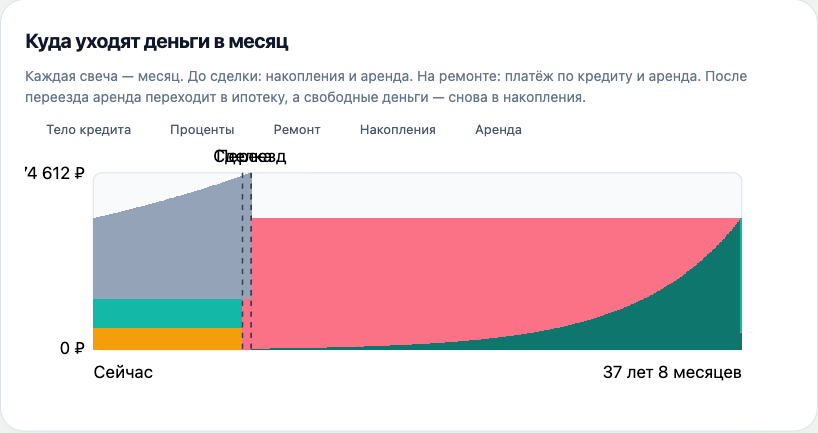
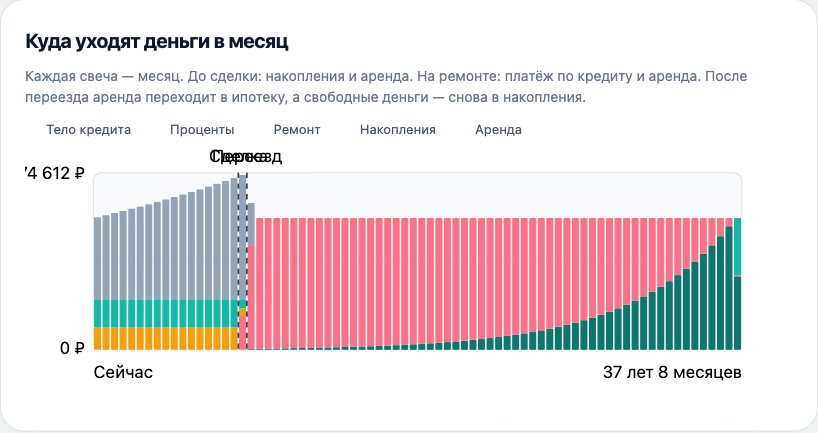
Bucket cashflow chart bars for readability (#10)
Monthly bars at 1.3px for long horizons rendered as moire noise.
Aggregate months into up to 80 buckets (average per month), bar
width >= 6px with gaps, tooltips show the averaged period.

Changed region(s): [[0.1222, 0.3303, 0.9169, 0.8106]]

diff --git a/src/App.vue b/src/App.vue
@@ -59,26 +59,37 @@ const cashflowChart = computed(() => {
   const data = cashflow.value;
   if (!data) return null;
   const total = data.rows.length;
-  const barWidth = 608 / total;
-  const rows = data.rows.map((row) => {
+  const bucketSize = Math.max(1, Math.ceil(total / 80));
+  const buckets = [];
+  for (let start = 0; start < total; start += bucketSize) {
+    const slice = data.rows.slice(start, start + bucketSize);
+    const average = (key) => slice.reduce((acc, row) => acc + row[key], 0) / slice.length;
+    buckets.push({ start, end: start + slice.length - 1, months: slice.length, savings: average('savings'), rent: average('rent'), renovation: average('renovation'), interest: average('interest'), principal: average('principal') });
+  }
+  const slot = 608 / buckets.length;
+  const barWidth = Math.min(slot * 0.82, 26);
+  const rows = buckets.map((bucket, index) => {
     const segments = [];
     let top = 200;
     for (const segment of CASHFLOW_SEGMENTS) {
-      const value = segment.pick(row);
+      const value = segment.pick(bucket);
       if (value < 0.5) continue;
       const height = value / data.maximum * 166;
       top -= height;
       segments.push({ key: segment.key, y: top, height, label: segment.label, value });
     }
-    const parts = segments.filter(({ value }) => value >= 1).map(({ label, value }) => `${label}: ${money.format(value)}`);
-    return { month: row.month, x: 64 + row.month * barWidth, segments, title: `${formatDate(addMonths(new Date(), row.month))} — ${parts.join(', ')}` };
+    const parts = segments.filter(({ value }) => value >= 1).map(({ label, value }) => `${label}: ${money.format(value)}${bucket.months > 1 ? ' /мес' : ''}`);
+    const period = bucket.months > 1
+      ? `В среднем в месяц, ${formatDate(addMonths(new Date(), bucket.start))} — ${formatDate(addMonths(new Date(), bucket.end))}`
+      : `${formatDate(addMonths(new Date(), bucket.start))}`;
+    return { month: bucket.start, x: 64 + index * slot + (slot - barWidth) / 2, segments, title: `${period} — ${parts.join(', ')}` };
   });
-  const marker = (month) => 64 + month * barWidth;
+  const markerX = (month) => 64 + Math.min(buckets.length - 1, Math.floor(month / bucketSize)) * slot;
   return {
     rows, barWidth,
     maximum: data.maximum, maxLabel: money.format(data.maximum),
-    dealX: data.dealMonth > 0 ? marker(data.dealMonth) : null,
-    moveX: data.moveMonth > data.dealMonth ? marker(data.moveMonth) : null,
+    dealX: data.dealMonth > 0 ? markerX(data.dealMonth) : null,
+    moveX: data.moveMonth > data.dealMonth ? markerX(data.moveMonth) : null,
     endLabel: duration(total)
   };
 });
@@ -111,5 +122,5 @@ onMounted(() => { const context = document.modelContext; if (!context?.registerT
     <p v-else class="empty">Первоначальный взнос не накапливается в горизонте 60 лет.</p>
   </article>
   <article class="card cash"><p class="kicker">Копить до полной суммы</p><h2>Покупка за накопления</h2><template v-if="result.cashPurchase"><p class="big-label">Сможете купить через</p><p class="big">{{ duration(result.cashPurchase.month) }}</p><p class="muted">{{ formatDate(addMonths(new Date(), result.cashPurchase.month)) }}</p><dl><div><dt>Цена квартиры тогда</dt><dd>{{ money.format(result.cashPurchase.price) }}</dd></div><div><dt>Накопления</dt><dd>{{ money.format(result.cashPurchase.balance) }}</dd></div><div class="wide"><dt>Аренда за время ожидания</dt><dd>{{ money.format(result.cashPurchase.rentPaid) }}</dd></div><div v-if="renovationNeeded" class="wide"><dt>Дата переезда</dt><dd>{{ moveDate(result.cashPurchase.moveMonth) }}</dd></div></dl></template><p v-else class="empty">При этих параметрах накопления не догоняют стоимость недвижимости за 60 лет. Увеличьте ежемесячный взнос или доходность вклада.</p></article></div>
-  <div class="bottom"><article class="card threshold"><h2>Когда покупать?</h2><p class="muted">Самое выгодное время для покупки — когда проценты за первый месяц по кредиту ниже аренды.</p><template v-if="result.thresholdPurchase"><p class="big-label">Покупка через</p><p class="big">{{ duration(result.thresholdPurchase.month) }}</p><p class="muted">{{ formatDate(addMonths(new Date(), result.thresholdPurchase.month)) }}</p><div class="year"><div><small>Проценты в первый месяц</small><strong>{{ money.format(result.thresholdPurchase.firstMonthInterest) }}</strong></div><div><small>Аренда тогда</small><strong>{{ money.format(result.thresholdPurchase.rent) }}</strong></div></div><dl><div><dt>Сумма кредита</dt><dd>{{ money.format(result.thresholdPurchase.principal) }}</dd></div><div><dt>Бюджет на платёж</dt><dd>{{ money.format(result.thresholdPurchase.payment) }} / мес.</dd></div><div><dt>Срок выплаты</dt><dd>{{ duration(result.thresholdPurchase.months) }}</dd></div><div><dt>Переплата</dt><dd>{{ money.format(result.thresholdPurchase.overpayment) }}</dd></div><div class="wide"><dt>Последний платёж</dt><dd>{{ formatDate(addMonths(addMonths(new Date(), result.thresholdPurchase.month), result.thresholdPurchase.months)) }}</dd></div><div v-if="renovationNeeded"><dt>Переезд</dt><dd>{{ moveDate(result.thresholdPurchase.moveMonth) }}</dd></div><div v-if="renovationNeeded" class="wide"><dt>Аренда до переезда</dt><dd>{{ moveRent(result.thresholdPurchase.moveMonth) }}</dd></div></dl></template><p v-else class="empty">В горизонте 60 лет условия покупки не выполняются.</p></article><aside class="card how"><h2>Как считаем</h2><p>Ипотека доступна, когда накопления покрывают первоначальный взнос, а платёж позволяет погасить кредит максимум за 30 лет. Затем сравниваются проценты за первый месяц по кредиту и аренда. Ежемесячный платёж по кредиту — это сумма ежемесячных накоплений и текущей аренды: после покупки деньги за аренду переходят в платёж по кредиту.</p><p v-if="renovationNeeded && renovationFunding === 'before'">Квартира без ремонта: цель накоплений — первоначальный взнос плюс стоимость ремонта, обе суммы растут вместе с ценой недвижимости. Сделка, затем ремонт — в это время аренда продолжается, а платёж по кредиту обслуживается только из ежемесячных накоплений. Аренда переходит в платёж по кредиту после переезда.</p><p v-if="renovationNeeded && renovationFunding === 'after'">Ремонт после покупки: сделка — при накоплении первоначального взноса. Пока ремонт не оплачен, кредит обслуживается 30-летним аннуитетом, а излишек «накопления минус аннуитет» идёт на ремонт поэтапно. Переезд — когда завершены и работы, и оплата; после переезда свободные деньги ускоряют погашение.</p></aside></div><article class="card journey-chart"><div><h2>Путь до покупки</h2><p class="muted">Зелёное — накопленный капитал. Янтарное — сумма, которой ещё не хватает до первоначального взноса.</p></div><div class="chart-legend"><span><i class="legend-savings"></i>Накопления</span><span><i class="legend-shortage"></i>Не хватает до взноса</span><span><i class="legend-down-payment"></i>Первоначальный взнос</span></div><svg viewBox="0 0 720 250" role="img" aria-label="График накоплений и первоначального взноса"><defs><linearGradient id="savings-fill" x1="0" x2="0" y1="0" y2="1"><stop offset="0" stop-color="#14b8a6" stop-opacity=".5"/><stop offset="1" stop-color="#14b8a6" stop-opacity=".05"/></linearGradient><linearGradient id="shortage-fill" x1="0" x2="0" y1="0" y2="1"><stop offset="0" stop-color="#f59e0b" stop-opacity=".35"/><stop offset="1" stop-color="#f59e0b" stop-opacity=".08"/></linearGradient></defs><rect class="chart-frame" x="64" y="34" width="608" height="166" rx="8"/><line class="chart-grid" x1="64" y1="117" x2="672" y2="117"/><path class="chart-area-savings" :d="journey.savingsArea"/><path v-if="journey.shortageArea" class="chart-area-shortage" :d="journey.shortageArea"/><line v-if="journey.markerX !== null" class="chart-marker" :x1="journey.markerX" y1="34" :x2="journey.markerX" y2="200"/><path class="chart-line chart-down-payment" :d="journey.requiredPath"/><path class="chart-line chart-savings" :d="journey.savingsPath"/><text x="56" y="40" text-anchor="end">{{ money.format(journey.maximum) }}</text><text x="56" y="204" text-anchor="end">0 ₽</text><text x="64" y="226">Сейчас</text><text :x="journey.middleX" y="226" text-anchor="middle">{{ journey.middleLabel }}</text><text x="672" y="226" text-anchor="end">{{ journey.endLabel }}</text></svg><p v-if="journey.markerLabel" class="chart-note"><span></span>Ипотека становится доступна через {{ journey.markerLabel }}.</p><p v-else class="chart-note muted">В ближайшие 30 лет ипотека не становится доступна при текущих параметрах.</p></article><article v-if="cashflowChart" class="card cashflow-chart"><div><h2>Куда уходят деньги в месяц</h2><p class="muted">Каждая свеча — месяц. До сделки: накопления и аренда. На ремонте: платёж по кредиту и аренда. После переезда аренда переходит в ипотеку, а свободные деньги — снова в накопления.</p></div><div class="chart-legend"><span><i class="cf-principal"></i>Тело кредита</span><span><i class="cf-interest"></i>Проценты</span><span><i class="cf-renovation"></i>Ремонт</span><span><i class="cf-savings"></i>Накопления</span><span><i class="cf-rent"></i>Аренда</span></div><svg viewBox="0 0 720 250" role="img" aria-label="Ежемесячное распределение платежей по категориям"><rect class="chart-frame" x="64" y="34" width="608" height="166" rx="8"/><line class="chart-grid" x1="64" y1="117" x2="672" y2="117"/><g v-for="row in cashflowChart.rows" :key="row.month"><title>{{ row.title }}</title><rect v-for="seg in row.segments" :key="seg.key" :class="'cf-' + seg.key" :x="row.x" :y="seg.y" :width="cashflowChart.barWidth + 0.4" :height="seg.height"/></g><line v-if="cashflowChart.dealX !== null" class="chart-marker" :x1="cashflowChart.dealX" y1="34" :x2="cashflowChart.dealX" y2="200"/><text v-if="cashflowChart.dealX !== null" :x="cashflowChart.dealX" y="24" text-anchor="middle">Сделка</text><line v-if="cashflowChart.moveX !== null" class="chart-marker" :x1="cashflowChart.moveX" y1="34" :x2="cashflowChart.moveX" y2="200"/><text v-if="cashflowChart.moveX !== null" :x="cashflowChart.moveX" y="24" text-anchor="middle">Переезд</text><text x="56" y="40" text-anchor="end">{{ cashflowChart.maxLabel }}</text><text x="56" y="204" text-anchor="end">0 ₽</text><text x="64" y="226">Сейчас</text><text x="672" y="226" text-anchor="end">{{ cashflowChart.endLabel }}</text></svg></article></section></div></main>
+  <div class="bottom"><article class="card threshold"><h2>Когда покупать?</h2><p class="muted">Самое выгодное время для покупки — когда проценты за первый месяц по кредиту ниже аренды.</p><template v-if="result.thresholdPurchase"><p class="big-label">Покупка через</p><p class="big">{{ duration(result.thresholdPurchase.month) }}</p><p class="muted">{{ formatDate(addMonths(new Date(), result.thresholdPurchase.month)) }}</p><div class="year"><div><small>Проценты в первый месяц</small><strong>{{ money.format(result.thresholdPurchase.firstMonthInterest) }}</strong></div><div><small>Аренда тогда</small><strong>{{ money.format(result.thresholdPurchase.rent) }}</strong></div></div><dl><div><dt>Сумма кредита</dt><dd>{{ money.format(result.thresholdPurchase.principal) }}</dd></div><div><dt>Бюджет на платёж</dt><dd>{{ money.format(result.thresholdPurchase.payment) }} / мес.</dd></div><div><dt>Срок выплаты</dt><dd>{{ duration(result.thresholdPurchase.months) }}</dd></div><div><dt>Переплата</dt><dd>{{ money.format(result.thresholdPurchase.overpayment) }}</dd></div><div class="wide"><dt>Последний платёж</dt><dd>{{ formatDate(addMonths(addMonths(new Date(), result.thresholdPurchase.month), result.thresholdPurchase.months)) }}</dd></div><div v-if="renovationNeeded"><dt>Переезд</dt><dd>{{ moveDate(result.thresholdPurchase.moveMonth) }}</dd></div><div v-if="renovationNeeded" class="wide"><dt>Аренда до переезда</dt><dd>{{ moveRent(result.thresholdPurchase.moveMonth) }}</dd></div></dl></template><p v-else class="empty">В горизонте 60 лет условия покупки не выполняются.</p></article><aside class="card how"><h2>Как считаем</h2><p>Ипотека доступна, когда накопления покрывают первоначальный взнос, а платёж позволяет погасить кредит максимум за 30 лет. Затем сравниваются проценты за первый месяц по кредиту и аренда. Ежемесячный платёж по кредиту — это сумма ежемесячных накоплений и текущей аренды: после покупки деньги за аренду переходят в платёж по кредиту.</p><p v-if="renovationNeeded && renovationFunding === 'before'">Квартира без ремонта: цель накоплений — первоначальный взнос плюс стоимость ремонта, обе суммы растут вместе с ценой недвижимости. Сделка, затем ремонт — в это время аренда продолжается, а платёж по кредиту обслуживается только из ежемесячных накоплений. Аренда переходит в платёж по кредиту после переезда.</p><p v-if="renovationNeeded && renovationFunding === 'after'">Ремонт после покупки: сделка — при накоплении первоначального взноса. Пока ремонт не оплачен, кредит обслуживается 30-летним аннуитетом, а излишек «накопления минус аннуитет» идёт на ремонт поэтапно. Переезд — когда завершены и работы, и оплата; после переезда свободные деньги ускоряют погашение.</p></aside></div><article class="card journey-chart"><div><h2>Путь до покупки</h2><p class="muted">Зелёное — накопленный капитал. Янтарное — сумма, которой ещё не хватает до первоначального взноса.</p></div><div class="chart-legend"><span><i class="legend-savings"></i>Накопления</span><span><i class="legend-shortage"></i>Не хватает до взноса</span><span><i class="legend-down-payment"></i>Первоначальный взнос</span></div><svg viewBox="0 0 720 250" role="img" aria-label="График накоплений и первоначального взноса"><defs><linearGradient id="savings-fill" x1="0" x2="0" y1="0" y2="1"><stop offset="0" stop-color="#14b8a6" stop-opacity=".5"/><stop offset="1" stop-color="#14b8a6" stop-opacity=".05"/></linearGradient><linearGradient id="shortage-fill" x1="0" x2="0" y1="0" y2="1"><stop offset="0" stop-color="#f59e0b" stop-opacity=".35"/><stop offset="1" stop-color="#f59e0b" stop-opacity=".08"/></linearGradient></defs><rect class="chart-frame" x="64" y="34" width="608" height="166" rx="8"/><line class="chart-grid" x1="64" y1="117" x2="672" y2="117"/><path class="chart-area-savings" :d="journey.savingsArea"/><path v-if="journey.shortageArea" class="chart-area-shortage" :d="journey.shortageArea"/><line v-if="journey.markerX !== null" class="chart-marker" :x1="journey.markerX" y1="34" :x2="journey.markerX" y2="200"/><path class="chart-line chart-down-payment" :d="journey.requiredPath"/><path class="chart-line chart-savings" :d="journey.savingsPath"/><text x="56" y="40" text-anchor="end">{{ money.format(journey.maximum) }}</text><text x="56" y="204" text-anchor="end">0 ₽</text><text x="64" y="226">Сейчас</text><text :x="journey.middleX" y="226" text-anchor="middle">{{ journey.middleLabel }}</text><text x="672" y="226" text-anchor="end">{{ journey.endLabel }}</text></svg><p v-if="journey.markerLabel" class="chart-note"><span></span>Ипотека становится доступна через {{ journey.markerLabel }}.</p><p v-else class="chart-note muted">В ближайшие 30 лет ипотека не становится доступна при текущих параметрах.</p></article><article v-if="cashflowChart" class="card cashflow-chart"><div><h2>Куда уходят деньги в месяц</h2><p class="muted">Каждая свеча — месяц. До сделки: накопления и аренда. На ремонте: платёж по кредиту и аренда. После переезда аренда переходит в ипотеку, а свободные деньги — снова в накопления.</p></div><div class="chart-legend"><span><i class="cf-principal"></i>Тело кредита</span><span><i class="cf-interest"></i>Проценты</span><span><i class="cf-renovation"></i>Ремонт</span><span><i class="cf-savings"></i>Накопления</span><span><i class="cf-rent"></i>Аренда</span></div><svg viewBox="0 0 720 250" role="img" aria-label="Ежемесячное распределение платежей по категориям"><rect class="chart-frame" x="64" y="34" width="608" height="166" rx="8"/><line class="chart-grid" x1="64" y1="117" x2="672" y2="117"/><g v-for="row in cashflowChart.rows" :key="row.month"><title>{{ row.title }}</title><rect v-for="seg in row.segments" :key="seg.key" :class="'cf-' + seg.key" :x="row.x" :y="seg.y" :width="cashflowChart.barWidth" :height="seg.height" rx="1"/></g><line v-if="cashflowChart.dealX !== null" class="chart-marker" :x1="cashflowChart.dealX" y1="34" :x2="cashflowChart.dealX" y2="200"/><text v-if="cashflowChart.dealX !== null" :x="cashflowChart.dealX" y="24" text-anchor="middle">Сделка</text><line v-if="cashflowChart.moveX !== null" class="chart-marker" :x1="cashflowChart.moveX" y1="34" :x2="cashflowChart.moveX" y2="200"/><text v-if="cashflowChart.moveX !== null" :x="cashflowChart.moveX" y="24" text-anchor="middle">Переезд</text><text x="56" y="40" text-anchor="end">{{ cashflowChart.maxLabel }}</text><text x="56" y="204" text-anchor="end">0 ₽</text><text x="64" y="226">Сейчас</text><text x="672" y="226" text-anchor="end">{{ cashflowChart.endLabel }}</text></svg></article></section></div></main>
 </template>

diff --git a/src/style.css b/src/style.css
@@ -43,7 +43,7 @@ dl { display: grid; grid-template-columns: repeat(2, minmax(0, 1fr)); gap: 20px 
 .chart-marker { stroke: #334155; stroke-width: 1.5; stroke-dasharray: 5 5; }
 .journey-chart text { fill: #64748b; font-size: 12px; font-weight: 500; }
 .chart-note { display: flex; align-items: center; gap: 8px; margin: 12px 0 0; font-size: 13px; color: #334155; }.chart-note span { width: 9px; height: 9px; border-radius: 50%; background: #0f766e; flex: none; }.chart-note.muted { color: #64748b; }
-.cashflow-chart { margin-top: 18px; }.cashflow-chart svg g rect { shape-rendering: crispEdges; }
+.cashflow-chart { margin-top: 18px; }
 .cf-principal { fill: #0f766e; }.cf-interest { fill: #fb7185; }.cf-renovation { fill: #f59e0b; }.cf-savings { fill: #14b8a6; }.cf-rent { fill: #94a3b8; }
 @media (max-width: 900px) { .layout { grid-template-columns: 1fr; }.inputs { grid-template-columns: 1fr 1fr; } }
 @media (max-width: 620px) { main { padding: 22px 16px 32px; } header { align-items: start; flex-direction: column; margin-bottom: 20px; }.inputs, .cards, .bottom, .year { grid-template-columns: 1fr; }.panel, .card { padding: 20px; border-radius: 20px; } }
